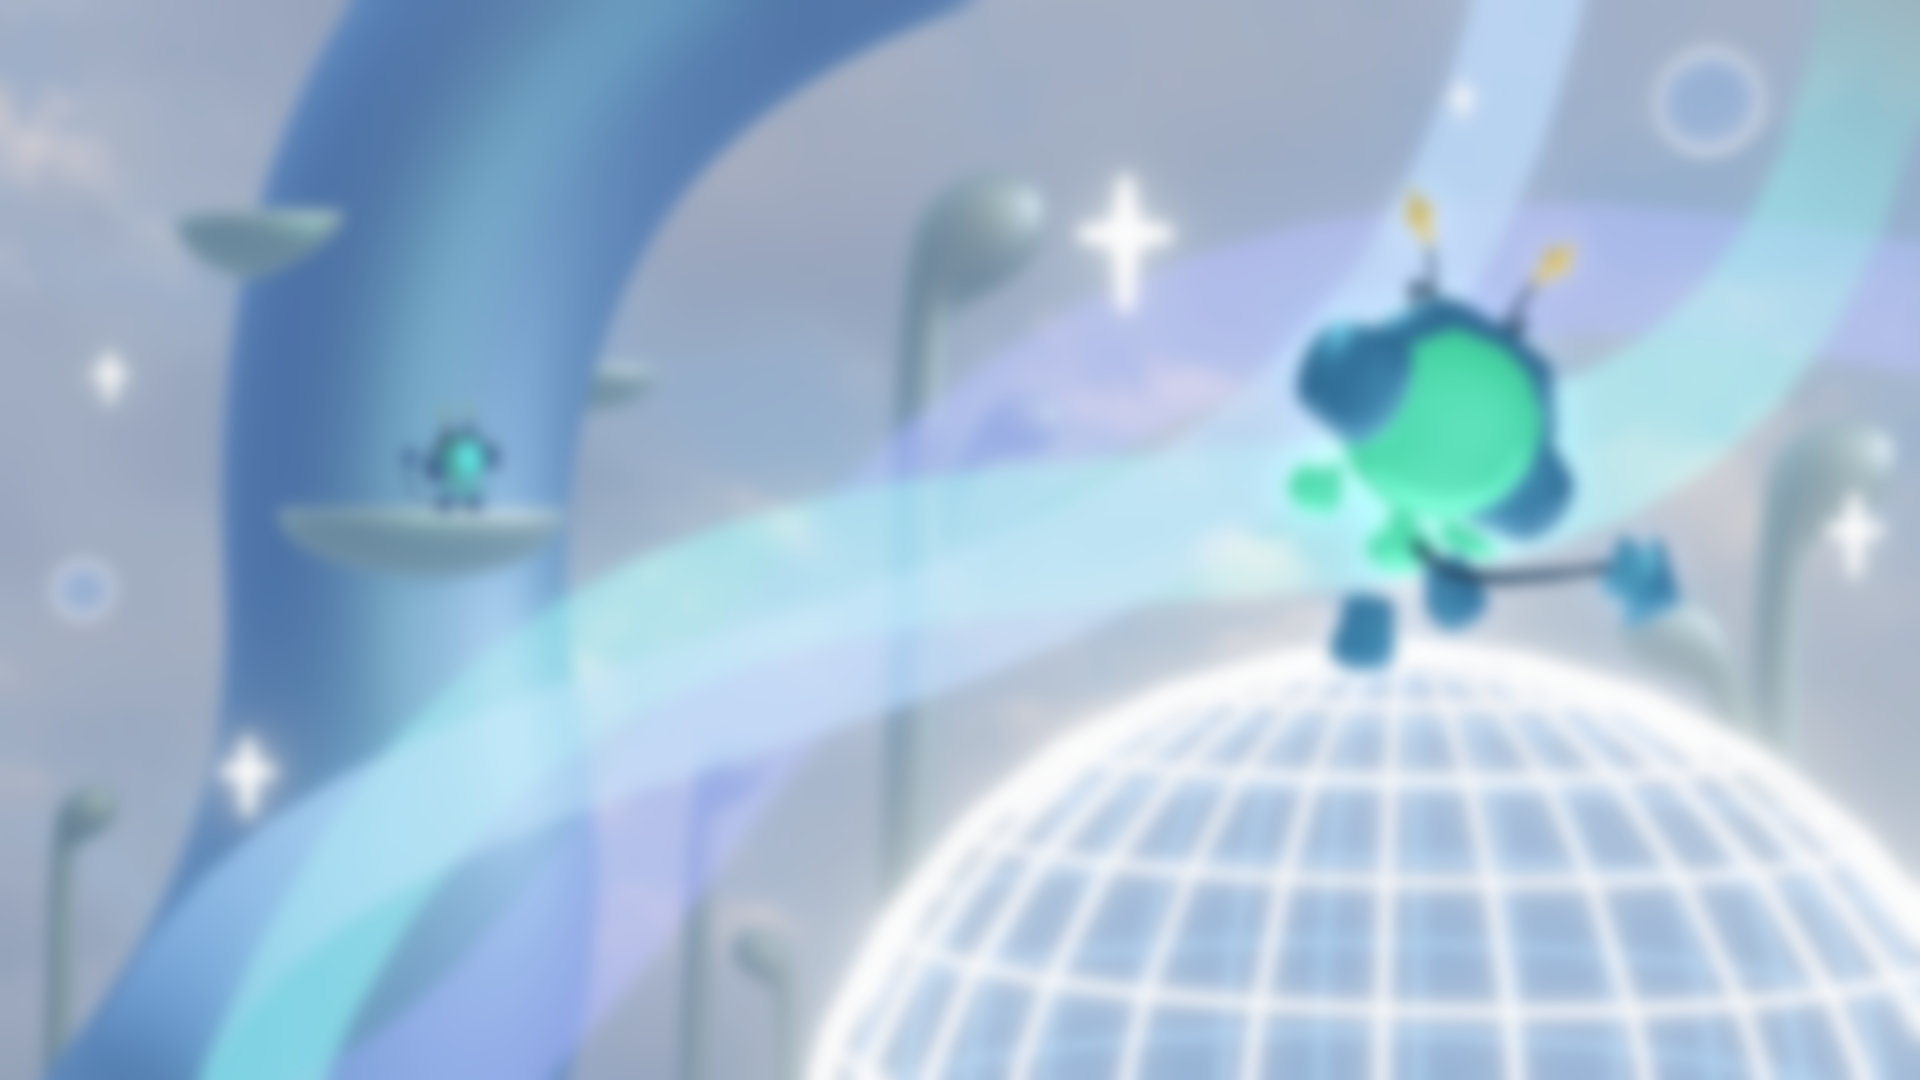
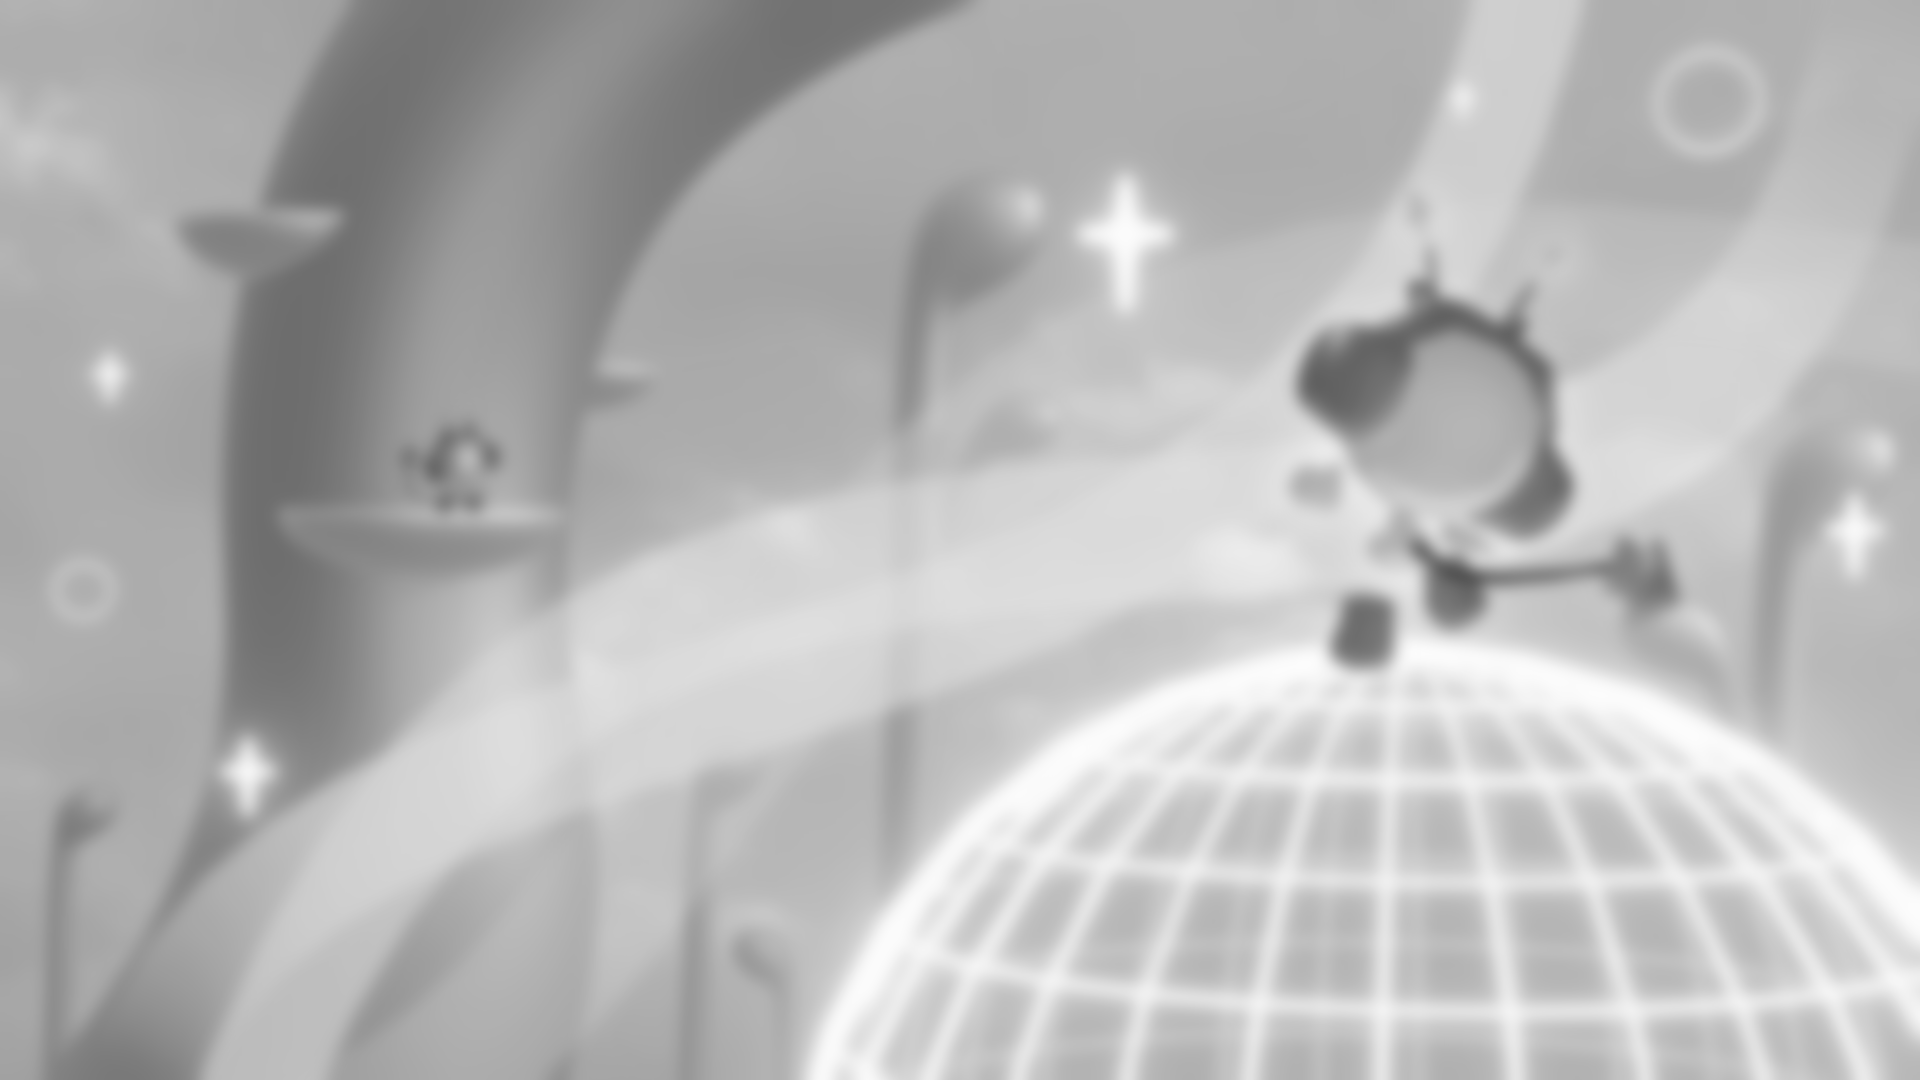
i make it greeeey

diff --git a/Archive forum.html b/Archive forum.html
@@ -101,7 +101,7 @@
                 0 2px 0 rgba(0, 0, 255, 0.3); /* Blue shadow, slightly offset down */
             
             
-            background-image: url(gradient_background_05.png);
+            background-image: url(gradient_background_03.png);
             background-color: rgba(255, 250, 250, 0.045);
             background-blend-mode: darken;
             background-size: 40% 100%;
@@ -120,7 +120,7 @@
                 -2px 0 0 rgba(0, 255, 0, 0.3), /* Green shadow, slightly offset left */
                 0 2px 0 rgba(0, 0, 255, 0.3); /* Blue shadow, slightly offset down */
             
-            background-image: url(gradient_background_05.png);
+            background-image: url(gradient_background_03.png);
             background-color: rgba(255, 250, 250, 0.045);
             background-blend-mode: darken;
             background-size: 40% 100%;
@@ -227,9 +227,16 @@
             font-weight: bold, italic;
             font-size: 10px;
             color:blue;
+            text-shadow: 
+                2px 0 0 rgba(255, 0, 0, 0.3), /* Red shadow, slightly offset right */
+                -2px 0 0 rgba(0, 255, 0, 0.3), /* Green shadow, slightly offset left */
+                0 2px 0 rgba(0, 0, 255, 0.3); /* Blue shadow, slightly offset down */
             box-sizing: border-box;
             background:-moz-linear-gradient(to bottom,white,rgb(237, 239, 252));
             border: 4px solid white;
+            box-shadow: 2px 0 0 rgba(255, 0, 0, 0.3), /* Red shadow, slightly offset right */
+                -2px 0 0 rgba(0, 255, 0, 0.3), /* Green shadow, slightly offset left */
+                0 2px 0 rgba(0, 0, 255, 0.3); /* Blue shadow, slightly offset down */
             border-radius:50%;
             display: inline-flex;
             justify-content: center; /* Centers text horizontally */
@@ -265,14 +272,11 @@
                 </div>
 
                 <div class="centre">
-                    <div class ="content">
-                        <img src="banner_ad.gif">
-                    </div>
 
                     <div class="content">
                         
                     </div>
-                    <p style="text-align: center;"><span style="color:blue;"><u>50</u></span> <span style="color:grey;"><u>49</u> <u>48</u> <u>47</u> <u>...</u></span></p>
+                    <p style="text-align: center;"><span style="color:blue;"><u>50</u></span> <span style="color:rgb(255, 255, 255);"><u>49</u> <u>48</u> <u>47</u> <u>...</u></span></p>
                     
                     <div class ="content">
                         <div id="forumuser">
@@ -388,7 +392,16 @@
                     
                 </div>
                 <div class="right">
-                    News!
+                    <p class="content"style="font-size:20px;">Recent threads</p>
+                    <a href="Webpage Missing.html"style="font-size:22px;"><p class="content">Screenshots of me and my online friends bubbles I found...</p></a>
+                    <br>
+                    <a href="Webpage Missing.html"style="font-size:22px;"><p class="content">Does anyone remember Old Bugs Biggsy? Or did I just hallucinate him..</p></a>
+                    <br>
+                    <a href="Webpage Missing.html"style="font-size:22px;"><p class="content">Confessions of a scammer...</p></a>
+                    <br>
+                    <a href="Webpage Missing.html"style="font-size:22px;"><p class="content">Did anyone catch the 2004 Rare ZooZ drop?...</p></a>
+                    <br>
+                    <a href="Webpage Missing.html"style="font-size:22px;"><p class="content">Older . . .</p></a>
                 </div>
             </div>
             </div>
